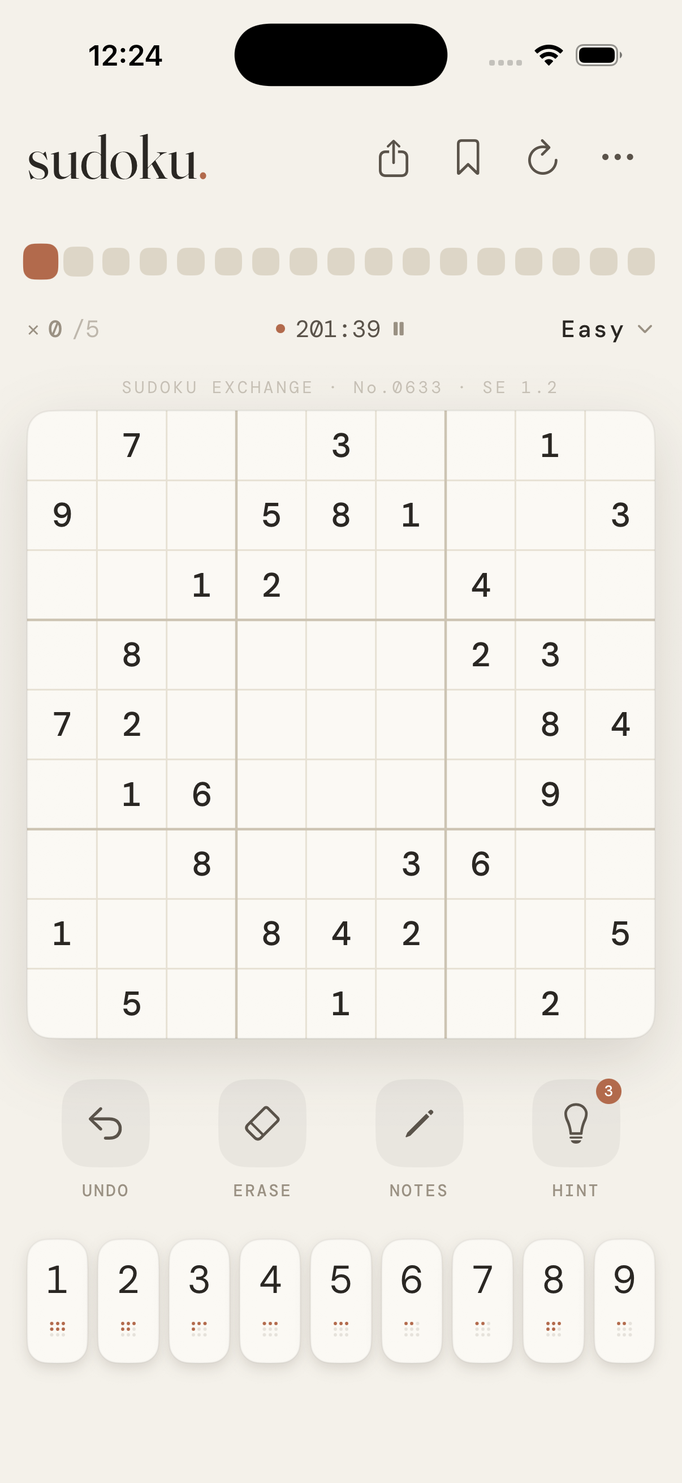
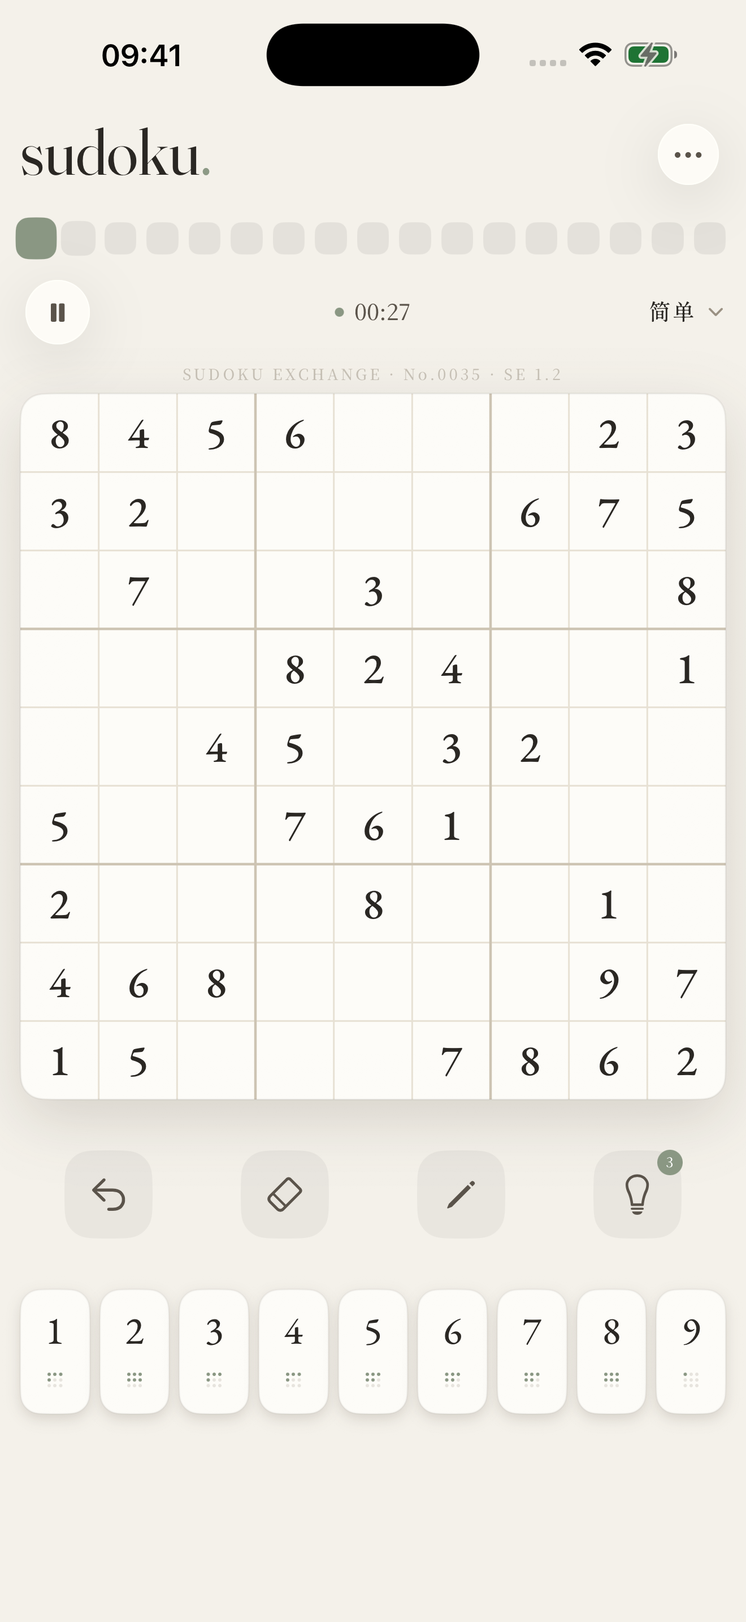
Build a cropped LED Sudoku hero and refresh the app gallery in sage green

diff --git a/sections/sudoku.html b/sections/sudoku.html
@@ -3,10 +3,11 @@
 <head>
 <meta charset="UTF-8">
 <meta name="viewport" content="width=device-width, initial-scale=1.0">
-<script src="../assets/i18n-main.js?v=bilingual-20261023"></script>
+<script src="../assets/i18n-main.js?v=green-sudoku-20261024"></script>
 <script src="../assets/i18n-cases.js?v=bilingual-20261023"></script>
 <script src="../assets/i18n.js?v=bilingual-20261023"></script>
 <script src="../assets/theme.js?v=diagonal-back-20261024"></script>
+<script defer src="../assets/sudoku-hero-matrix.js?v=large-board-corner-20261024"></script>
 <meta name="description" content="Sudoku.2026：已上架的原生数独应用，界面、交互与真实产品截图。">
 <title>Sudoku — 原生数独</title>
 <style>
@@ -15,7 +16,7 @@
 *{box-sizing:border-box}html{scroll-behavior:smooth}body{margin:0;background:var(--paper);color:var(--ink);font:400 14px/1.85 var(--sans);-webkit-font-smoothing:antialiased}h1,h2,p,figure,dl,dd{margin:0}button,a{-webkit-tap-highlight-color:transparent;touch-action:manipulation}button{font:inherit;color:inherit}a{color:inherit;text-decoration:none}img{display:block;width:100%;height:auto}button{border:0;border-radius:0;background:none;cursor:pointer;padding:0}a:focus-visible,button:focus-visible,summary:focus-visible{outline:1px solid var(--ink);outline-offset:7px}::selection{background:var(--ink);color:var(--paper)}.page{width:min(1320px,100%);margin:auto;padding:0 clamp(22px,5.5vw,76px)}
 .topbar{padding-right:96px;min-height:88px;display:flex;justify-content:space-between;align-items:center;gap:25px;padding-left:124px;border-bottom:1px solid var(--line);font:10px/1.5 var(--mono);letter-spacing:.07em;color:var(--mid)}.store-link{display:inline-flex;align-items:center;justify-content:space-between;gap:22px;min-height:44px;white-space:nowrap;color:var(--ink)}.store-link .arrow{font-size:18px;transition:transform .2s}.store-link:hover .arrow{transform:translate(2px,-2px)}
 .hero{padding:68px 0 54px}.hero-kicker{display:flex;justify-content:space-between;gap:25px;color:var(--mid);font:10px/1.7 var(--mono);letter-spacing:.08em}.hero-main{display:grid;grid-template-columns:1.7fr .8fr;gap:30px;align-items:end;margin-top:35px}.hero h1{font:400 clamp(88px,15.7vw,202px)/.9 var(--serif);letter-spacing:-.075em;white-space:nowrap}.hero h1 span{color:var(--accent)}.hero-line{font-size:17px;letter-spacing:.07em;margin-top:27px}.hero-aside{padding-bottom:6px;max-width:255px;justify-self:end}.hero-aside p{font-size:13px;line-height:2;color:var(--mid)}.hero-aside .project-type{display:block;font:10px/1.7 var(--mono);letter-spacing:.06em;margin-top:22px;color:var(--soft)}
-.product-spread{display:grid;grid-template-columns:.85fr 1fr 1fr;gap:clamp(20px,3.4vw,45px);padding:48px clamp(25px,4vw,54px) 34px;background:var(--surface);align-items:end}.product-copy{align-self:center;padding-bottom:40px}.section-no{font:10px/1.5 var(--mono);letter-spacing:.08em;color:var(--soft)}.product-copy h2{font-size:clamp(24px,2.7vw,34px);font-weight:400;letter-spacing:-.035em;line-height:1.6;margin-top:24px;max-width:6em}.product-copy>p{font-size:12px;line-height:2.05;color:var(--mid);margin-top:20px;max-width:19em}.facts{margin-top:38px;display:grid;gap:13px}.facts>div{display:grid;grid-template-columns:42px 1fr;gap:14px;font-size:10px}.facts dt{color:var(--soft)}.facts dd{color:var(--mid)}.screen-image{position:relative;display:block;width:100%;overflow:hidden;background:var(--photo-paper)}.screen-image img{aspect-ratio:1206/2622;object-fit:contain}.image-hint{position:absolute;top:9px;right:9px;width:29px;height:29px;display:grid;place-items:center;background:#f5f4eddd;color:#45483f;font:16px/1 var(--mono);opacity:0;transition:opacity .2s}.image-open:hover .image-hint,.image-open:focus-visible .image-hint{opacity:1}.screen-caption{display:flex;align-items:baseline;gap:13px;margin-top:18px;color:var(--mid);font-size:10px}.screen-caption span{font:9px/1.6 var(--mono);color:var(--soft)}
+.product-spread{display:grid;grid-template-columns:.85fr 1fr 1fr;gap:clamp(20px,3.4vw,45px);padding:48px clamp(25px,4vw,54px) 34px;background:var(--surface);align-items:end}.product-copy{align-self:center;padding-bottom:40px}.section-no{font:10px/1.5 var(--mono);letter-spacing:.08em;color:var(--soft)}.product-copy h2{font-size:clamp(24px,2.7vw,34px);font-weight:400;letter-spacing:-.035em;line-height:1.6;margin-top:24px;max-width:6em}.product-copy>p{font-size:12px;line-height:2.05;color:var(--mid);margin-top:20px;max-width:19em}.facts{margin-top:38px;display:grid;gap:13px}.facts>div{display:grid;grid-template-columns:42px 1fr;gap:14px;font-size:10px}.facts dt{color:var(--soft)}.facts dd{color:var(--mid)}.screen-image{position:relative;display:block;width:100%;overflow:hidden;background:var(--photo-paper)}.screen-image img{aspect-ratio:1320/2868;object-fit:contain}.image-hint{position:absolute;top:9px;right:9px;width:29px;height:29px;display:grid;place-items:center;background:#f5f4eddd;color:#45483f;font:16px/1 var(--mono);opacity:0;transition:opacity .2s}.image-open:hover .image-hint,.image-open:focus-visible .image-hint{opacity:1}.screen-caption{display:flex;align-items:baseline;gap:13px;margin-top:18px;color:var(--mid);font-size:10px}.screen-caption span{font:9px/1.6 var(--mono);color:var(--soft)}
 
 .archive{margin-top:75px;border-top:1px solid var(--line);border-bottom:1px solid var(--line)}.archive summary{display:flex;align-items:center;gap:25px;min-height:83px;cursor:pointer;list-style:none;font-size:12px}.archive summary::-webkit-details-marker{display:none}.archive-label{color:var(--ink)}.archive-meta{font-size:10px;color:var(--soft);margin-left:auto}.archive-plus{font:22px/1 var(--mono);color:var(--mid);margin-left:auto}.archive-meta+.archive-plus{margin-left:14px}.archive[open] .archive-plus{transform:rotate(45deg)}.screen-strip{display:grid;grid-template-columns:repeat(3,minmax(0,1fr));gap:30px;padding:15px 0 35px}.screen-strip .screen-image{max-width:280px;margin:auto}.screen-strip .screen-caption{max-width:280px;margin:16px auto 0}.project-footer{margin-top:75px;padding:34px 0 46px;display:flex;justify-content:space-between;gap:25px;align-items:center}.footer-name{font:400 28px/1 var(--serif);letter-spacing:-.04em}.footer-name small{display:block;font:10px/1.5 var(--mono);letter-spacing:0;color:var(--soft);margin-top:12px}.project-footer .store-link{font-size:11px;border-bottom:1px solid var(--line);padding-bottom:5px}
 .media-viewer{border:0;padding:0;background:var(--paper);color:var(--ink);max-width:none;max-height:none;width:100%;height:100%;margin:0;position:fixed;inset:0;overflow:auto}.media-viewer::backdrop{background:#000a}.viewer-bar{height:74px;position:sticky;top:0;z-index:2;background:var(--paper);display:flex;justify-content:space-between;align-items:center;padding:0 28px;gap:24px;border-bottom:1px solid var(--line)}#viewer-caption{font-size:11px;color:var(--mid)}.viewer-close{width:44px;height:44px;display:grid;place-items:center;font:28px/1 var(--mono)}.viewer-image{display:flex;justify-content:center;padding:30px 24px 50px;min-height:calc(100% - 74px)}.viewer-image img{width:auto;max-width:100%;height:auto;max-height:none;object-fit:contain;align-self:flex-start}.viewer-image.is-screen img{width:min(440px,100%)}.viewer-image.is-poster img{width:min(900px,100%)}
@@ -26,23 +27,25 @@
 .footer-actions{display:flex;align-items:center;gap:28px}.case-link{font-size:10px;color:var(--mid);min-height:44px;display:inline-flex;align-items:center}.case-link:hover{color:var(--ink)}@media(max-width:720px){.footer-actions{flex-direction:column;align-items:flex-end;gap:4px}.case-link{font-size:9px;min-height:32px}}
 </style>
 <link rel="stylesheet" href="../assets/theme.css?v=lanting-light-20261024">
+<link rel="stylesheet" href="../assets/sudoku-hero.css?v=large-board-corner-20261024">
 </head>
 <body>
 <main class="page">
   <header class="topbar"><span>01 / 数独</span><a class="store-link" href="https://apps.apple.com/cn/app/sudoku-2026/id6775198044" target="_blank" rel="noopener noreferrer">App Store <span class="arrow" aria-hidden="true">↗</span></a></header>
   <section class="hero" aria-labelledby="project-title">
+    <div class="sudoku-hero-art" aria-hidden="true" data-i18n-ignore><div class="sudoku-board-angle"><canvas id="sudoku-hero-matrix" aria-hidden="true"></canvas></div></div>
     <div class="hero-kicker"><span>原生数独 · 已上架</span><span>产品设计 / 视觉设计 / SwiftUI</span></div>
     <div class="hero-main"><div><h1 id="project-title">sudoku<span>.</span></h1><p class="hero-line">凡事有解。</p></div><div class="hero-aside"><span class="project-type">iPhone / iPad</span></div></div>
   </section>
   <section class="product-spread" aria-labelledby="product-heading">
     <div class="product-copy"><span class="section-no">01 / 产品</span><h2 id="product-heading">界面与交互</h2><p>棋盘、笔记与分步辅导。</p><dl class="facts"><div><dt>平台</dt><dd>iPhone / iPad</dd></div><div><dt>形式</dt><dd>SwiftUI 原生应用</dd></div><div><dt>工作</dt><dd>独立设计与开发</dd></div></dl></div>
-    <figure><button class="screen-image image-open" data-image="../assets/works/sudoku/board.png" data-caption="主棋盘" data-kind="screen" aria-label="放大查看主棋盘截图"><img src="../assets/works/sudoku/board.png" width="1206" height="2622" alt="数独主棋盘，纸白底、陶土色进度与输入工具" fetchpriority="high" decoding="async"><span class="image-hint" aria-hidden="true">↗</span></button><figcaption class="screen-caption"><span>01</span>主棋盘</figcaption></figure>
-    <figure><button class="screen-image image-open" data-image="../assets/works/sudoku/coach.png" data-caption="分步辅导" data-kind="screen" aria-label="放大查看分步辅导截图"><img src="../assets/works/sudoku/coach.png" width="1206" height="2622" alt="分步辅导在真实盘面上标出目标格，并解释裸单逻辑" decoding="async"><span class="image-hint" aria-hidden="true">↗</span></button><figcaption class="screen-caption"><span>02</span>分步辅导</figcaption></figure>
+    <figure><button class="screen-image image-open" data-image="../assets/works/sudoku/board.png?v=green-20261024" data-caption="主棋盘" data-kind="screen" aria-label="放大查看主棋盘截图"><img src="../assets/works/sudoku/board.png?v=green-20261024" width="1320" height="2868" alt="数独主棋盘，鼠尾草绿色进度条与输入工具" fetchpriority="high" decoding="async"><span class="image-hint" aria-hidden="true">↗</span></button><figcaption class="screen-caption"><span>01</span>主棋盘</figcaption></figure>
+    <figure><button class="screen-image image-open" data-image="../assets/works/sudoku/coach.png?v=green-20261024" data-caption="分步辅导" data-kind="screen" aria-label="放大查看分步辅导截图"><img src="../assets/works/sudoku/coach.png?v=green-20261024" width="1320" height="2868" alt="离线分步辅导，用绿色框线标出隐性唯一的目标行和格子" decoding="async"><span class="image-hint" aria-hidden="true">↗</span></button><figcaption class="screen-caption"><span>02</span>分步辅导</figcaption></figure>
   </section>
   <details class="archive"><summary><span class="archive-label">界面档案</span><span class="archive-meta">设置 / 经典残局 / 分享</span><span class="archive-plus" aria-hidden="true">＋</span></summary><div class="screen-strip">
-    <figure><button class="screen-image image-open" data-image="../assets/works/sudoku/settings.png" data-caption="设置" data-kind="screen" aria-label="放大查看设置截图"><img src="../assets/works/sudoku/settings.png" width="1206" height="2622" alt="数独设置页面" loading="lazy" decoding="async"><span class="image-hint" aria-hidden="true">↗</span></button><figcaption class="screen-caption"><span>03</span>设置</figcaption></figure>
-    <figure><button class="screen-image image-open" data-image="../assets/works/sudoku/classics.png" data-caption="经典残局" data-kind="screen" aria-label="放大查看经典残局截图"><img src="../assets/works/sudoku/classics.png" width="1206" height="2622" alt="经典残局题库页面" loading="lazy" decoding="async"><span class="image-hint" aria-hidden="true">↗</span></button><figcaption class="screen-caption"><span>04</span>经典残局</figcaption></figure>
-    <figure><button class="screen-image image-open" data-image="../assets/works/sudoku/share.png" data-caption="分享残局" data-kind="screen" aria-label="放大查看分享残局截图"><img src="../assets/works/sudoku/share.png" width="1206" height="2622" alt="通过文字口令分享同一局数独" loading="lazy" decoding="async"><span class="image-hint" aria-hidden="true">↗</span></button><figcaption class="screen-caption"><span>05</span>分享残局</figcaption></figure>
+    <figure><button class="screen-image image-open" data-image="../assets/works/sudoku/settings.png?v=green-20261024" data-caption="设置" data-kind="screen" aria-label="放大查看设置截图"><img src="../assets/works/sudoku/settings.png?v=green-20261024" width="1320" height="2868" alt="数独设置页面" loading="lazy" decoding="async"><span class="image-hint" aria-hidden="true">↗</span></button><figcaption class="screen-caption"><span>03</span>设置</figcaption></figure>
+    <figure><button class="screen-image image-open" data-image="../assets/works/sudoku/classics.png?v=green-20261024" data-caption="经典残局" data-kind="screen" aria-label="放大查看经典残局截图"><img src="../assets/works/sudoku/classics.png?v=green-20261024" width="1320" height="2868" alt="经典残局题库页面" loading="lazy" decoding="async"><span class="image-hint" aria-hidden="true">↗</span></button><figcaption class="screen-caption"><span>04</span>经典残局</figcaption></figure>
+    <figure><button class="screen-image image-open" data-image="../assets/works/sudoku/share.png?v=green-20261024" data-caption="分享残局" data-kind="screen" aria-label="放大查看分享残局截图"><img src="../assets/works/sudoku/share.png?v=green-20261024" width="1320" height="2868" alt="分享残局页面，显示当前盘面预览和发送给朋友按钮" loading="lazy" decoding="async"><span class="image-hint" aria-hidden="true">↗</span></button><figcaption class="screen-caption"><span>05</span>分享残局</figcaption></figure>
   </div></details>
   <footer class="project-footer"><div class="footer-name">Sudoku.2026<small>独立设计与开发 · 蔡正阳</small></div><div class="footer-actions"><a class="case-link" href="sudoku-visual.html">视觉系统 ↗</a><a class="store-link" href="https://apps.apple.com/cn/app/sudoku-2026/id6775198044" target="_blank" rel="noopener noreferrer">前往 App Store <span class="arrow" aria-hidden="true">↗</span></a></div></footer>
 </main>

diff --git a/assets/sudoku-hero-matrix.js b/assets/sudoku-hero-matrix.js
@@ -1,0 +1,97 @@
+/* Independent, static LED Sudoku. CSS owns the giant scale, tilt and clipping.
+ * Logical canvas: 1536 square. Board: (48,48)..(1488,1488), cells 160.
+ * Every LED sits on an 8-unit lattice; digits are hand-coded 5×7 bitmaps.
+ * No font rendering, image assets, interaction, timers or animation frames.
+ */
+(() => {
+  'use strict';
+  const canvas=document.getElementById('sudoku-hero-matrix');
+  const ctx=canvas?.getContext('2d',{alpha:true});
+  if(!ctx)return;
+  const SIZE=1536,PITCH=8,ORIGIN=48,CELL=160,END=1488,GRID=193,RADIUS=2.55;
+  // A valid, uniquely solvable partial board; zero cells stay completely open.
+  const BOARD=[
+    '530070000','600195000','098000060',
+    '800060003','400803001','700020006',
+    '060000280','000419005','000080079',
+  ];
+  const FONT={
+    1:['00100','01100','00100','00100','00100','00100','01110'],
+    2:['01110','11011','00011','00110','01100','11000','11111'],
+    3:['11110','00011','00011','01110','00011','00011','11110'],
+    4:['00011','00111','01111','11011','11111','00011','00011'],
+    5:['11111','11000','11000','11110','00011','00011','11110'],
+    6:['01110','11000','11000','11110','11011','11011','01110'],
+    7:['11111','00011','00110','00110','01100','01100','01100'],
+    8:['01110','11011','11011','01110','11011','11011','01110'],
+    9:['01110','11011','11011','01111','00011','00011','01110'],
+  };
+  const accentCells=new Set(['0:1','1:3','4:5','6:7','8:8']);
+  const roles=new Uint8Array(GRID*GRID);
+  function dot(x,y,role) {
+    const column=Math.round(x/PITCH),row=Math.round(y/PITCH);
+    if(column>=0&&row>=0&&column<GRID&&row<GRID)roles[row*GRID+column]=role;
+  }
+  // Thin cell divisions and three-column block divisions use identical dots.
+  // Their only difference is the number of parallel LED columns.
+  for(let boundary=0;boundary<=9;boundary++) {
+    const coordinate=ORIGIN+boundary*CELL,major=boundary%3===0;
+    for(const offset of major?[-PITCH,0,PITCH]:[0]) {
+      for(let point=ORIGIN-PITCH;point<=END+PITCH;point+=PITCH) {
+        dot(coordinate+offset,point,major?2:1);
+        dot(point,coordinate+offset,major?2:1);
+      }
+    }
+  }
+  for(let row=0;row<9;row++)for(let column=0;column<9;column++) {
+    const value=Number(BOARD[row][column]);if(!value)continue;
+    const glyph=FONT[value],role=accentCells.has(`${row}:${column}`)?4:3;
+    const x=ORIGIN+column*CELL+40,y=ORIGIN+row*CELL+24;
+    for(let gy=0;gy<7;gy++)for(let gx=0;gx<5;gx++)if(glyph[gy][gx]==='1') {
+      for(let sy=0;sy<2;sy++)for(let sx=0;sx<2;sx++)dot(x+(gx*2+sx)*PITCH,y+(gy*2+sy)*PITCH,role);
+    }
+  }
+  const points=[[],[],[],[],[]];
+  for(let row=0;row<GRID;row++)for(let column=0;column<GRID;column++) {
+    const role=roles[row*GRID+column];if(role)points[role].push([column*PITCH,row*PITCH]);
+  }
+  const themes={
+    dark:{colours:['','rgb(115,121,108)','rgb(146,155,134)','rgb(162,172,151)','rgb(125,164,121)'],alpha:[0,.68,.83,.94,.96]},
+    light:{colours:['','rgb(116,126,107)','rgb(77,92,71)','rgb(67,88,66)','rgb(65,111,65)'],alpha:[0,.74,.9,.94,.95]},
+  };
+  const forced=matchMedia('(forced-colors: active)');
+  let visible=true,pageShown=true,dirty=true;
+  function draw() {
+    if(!dirty||!visible||!pageShown||document.hidden||forced.matches)return;
+    const theme=themes[document.documentElement.dataset.theme==='light'?'light':'dark'];
+    ctx.clearRect(0,0,SIZE,SIZE);
+    for(let role=1;role<=4;role++) {
+      ctx.fillStyle=theme.colours[role];ctx.globalAlpha=theme.alpha[role];
+      for(const[x,y]of points[role]) {
+        ctx.beginPath();ctx.arc(x,y,RADIUS,0,Math.PI*2);ctx.fill();
+      }
+    }
+    ctx.globalAlpha=1;dirty=false;
+  }
+  function refresh() {
+    dirty=true;canvas.style.visibility=forced.matches?'hidden':'';draw();
+  }
+  function resize() {
+    const cssSize=Math.max(canvas.clientWidth||0,canvas.clientHeight||0);
+    const backing=Math.min(3072,Math.max(SIZE,Math.round(cssSize*Math.min(devicePixelRatio||1,2))));
+    if(canvas.width!==backing)canvas.width=backing;
+    if(canvas.height!==backing)canvas.height=backing;
+    ctx.setTransform(backing/SIZE,0,0,backing/SIZE,0,0);refresh();
+  }
+  new MutationObserver(refresh).observe(document.documentElement,{attributes:true,attributeFilter:['data-theme']});
+  if(typeof IntersectionObserver==='function')new IntersectionObserver(entries=>{
+    visible=entries.some(entry=>entry.isIntersecting);if(visible)draw();
+  }).observe(canvas);
+  if(typeof ResizeObserver==='function')new ResizeObserver(resize).observe(canvas);
+  addEventListener('resize',resize,{passive:true});
+  document.addEventListener('visibilitychange',()=>{if(!document.hidden)draw();});
+  forced.addEventListener('change',refresh);
+  addEventListener('pagehide',()=>{pageShown=false;});
+  addEventListener('pageshow',()=>{pageShown=true;draw();});
+  resize();
+})();

diff --git a/assets/sudoku-hero.css b/assets/sudoku-hero.css
@@ -1,0 +1,37 @@
+/* The board is larger than the frame: one LED corner enters from the upper left. */
+.page{--sudoku-gutter:clamp(22px,5.5vw,76px)}
+.hero{position:relative;isolation:isolate;display:flex;flex-direction:column;
+  min-height:clamp(560px,74svh,780px);padding:40px 0 54px}
+.sudoku-hero-art{position:absolute;z-index:-1;top:0;bottom:0;
+  left:calc(-1 * var(--sudoku-gutter));right:calc(-1 * var(--sudoku-gutter));
+  overflow:hidden;pointer-events:none;user-select:none}
+.sudoku-board-angle{--board-size:clamp(1100px,114vw,1720px);
+  position:absolute;width:var(--board-size);height:var(--board-size);
+  left:calc(var(--board-size) * -.72);top:calc(var(--board-size) * -.55);
+  transform:rotate(-22deg);transform-origin:50% 50%;pointer-events:none}
+#sudoku-hero-matrix{display:block;width:100%;height:100%;pointer-events:none}
+.hero .hero-kicker{position:relative;align-self:flex-end;display:flex;flex-direction:column;
+  width:52%;gap:7px;font-size:12px;line-height:1.65;letter-spacing:.03em}
+.hero .hero-kicker>span:last-child{text-align:left}
+.hero .hero-main{position:relative;display:block;width:52%;margin: auto 0 28px auto}
+.hero h1{font-size:clamp(100px,11.7vw,164px);line-height:.95;letter-spacing:-.065em}
+.hero .hero-line{margin-top:25px;font-size:17px}
+.hero .hero-aside{max-width:none;margin-top:25px;padding:0}
+.hero .hero-aside .project-type{margin-top:0}
+@media(max-width:1000px) and (min-width:721px){
+  .hero h1{font-size:12vw}
+  .sudoku-board-angle{left:calc(var(--board-size) * -.76)}
+}
+@media(max-width:720px){
+  .hero{min-height:570px;padding-top:30px;padding-bottom:38px;gap:32px}
+  .sudoku-board-angle{--board-size:clamp(760px,180vw,1100px);
+    left:calc(var(--board-size) * -.62);top:calc(var(--board-size) * -.72)}
+  .hero .hero-kicker{width:100%;align-self:flex-start;margin-top:clamp(200px,calc(35vw + 60px),300px);
+    gap:5px;font-size:10px;overflow-wrap:anywhere}
+  .hero .hero-main{width:100%;margin: auto 0 24px}
+  .hero h1{font-size:clamp(86px,22vw,150px)}
+  .hero .hero-line{font-size:15px;margin-top:22px}
+  .hero .hero-aside{margin-top:20px}
+}
+@media(max-width:400px){.hero{min-height:535px}.hero h1{font-size:23vw}}
+@media(forced-colors:active){.sudoku-hero-art{display:none}}

diff --git a/assets/i18n-main.js b/assets/i18n-main.js
@@ -92,9 +92,11 @@ window.PORTFOLIO_TRANSLATIONS = {
   "独立设计与开发": "Independent design and development",
   "放大查看主棋盘截图": "Enlarge the main board screenshot",
   "数独主棋盘，纸白底、陶土色进度与输入工具": "The main Sudoku board, with a paper-white background, terracotta progress and input tools",
+  "数独主棋盘，鼠尾草绿色进度条与输入工具": "The main Sudoku board with sage-green progress and input tools",
   "主棋盘": "Main board",
   "放大查看分步辅导截图": "Enlarge the coaching screenshot",
   "分步辅导在真实盘面上标出目标格，并解释裸单逻辑": "Step-by-step coaching highlights a target cell on the board and explains the naked-single technique",
+  "离线分步辅导，用绿色框线标出隐性唯一的目标行和格子": "Offline step-by-step coaching marks the target row and cell for a hidden single in green",
   "分步辅导": "Step-by-step coaching",
   "界面档案": "Interface archive",
   "设置 / 经典残局 / 分享": "Settings / Classic puzzles / Sharing",
@@ -106,6 +108,7 @@ window.PORTFOLIO_TRANSLATIONS = {
   "经典残局": "Classic puzzles",
   "放大查看分享残局截图": "Enlarge the puzzle-sharing screenshot",
   "通过文字口令分享同一局数独": "Share the same Sudoku puzzle with a text code",
+  "分享残局页面，显示当前盘面预览和发送给朋友按钮": "The puzzle-sharing screen, showing the current board preview and a Send to friends button",
   "分享残局": "Share a puzzle",
   "独立设计与开发 · 蔡正阳": "Designed and developed independently by Cai Zhengyang",
   "视觉系统 ↗": "Visual system ↗",

diff --git a/index.html b/index.html
@@ -411,7 +411,7 @@ secBack.addEventListener('click',()=>{if(phase==='section')showWorks();});
 /* 原生重建页（可编辑元素，非贴图） */
 const SECTION_PAGE={
   "arright":"sections/arright.html",
-  "数独 · App":"sections/sudoku.html",
+  "数独 · App":"sections/sudoku.html?v=green-led-20261024",
   "数独 · 视觉":"sections/sudoku-visual.html",
   "良渚 · AI 3D":"sections/ai3d.html",
   "良渚 · XR":"sections/xr.html",

diff --git a/assets/works/sudoku/SOURCES.md b/assets/works/sudoku/SOURCES.md
@@ -1,0 +1,32 @@
+# 极简数独截图来源
+
+采集日期：2026-10-24。此目录用于第一版极简数独，Bundle ID `com.hanyuzhu.sudoku`、App Store ID `6775198044`；与美式报刊视觉探索的素材分开。
+
+## 当前作品页的五张截图
+
+五张均来自同一份真实原生 App 开发构建：`1.2 (28)`，Debug / iOS Simulator。统一为中文界面、鼠尾绿 `.sage` 主题、6.9 寸 iPhone 17 Pro Max、iOS 26.5、1320 × 2868；状态栏固定 09:41。
+
+原始截图保存在 `/Users/bing/Documents/codex/2026-10-24/sudoku-green-screenshots/`，与本目录同名文件逐字节一致。通过 `xcrun simctl io ... screenshot` 直接获取屏幕内容，没有模拟器窗口外框、鼠标指针或网页内容，没有重着色、滤镜、裁切或拼接。
+
+| 网站文件 | 已有 DEBUG 启动参数 | 实际画面 |
+| --- | --- | --- |
+| `board.png` | `-zh` | 简单难度主棋盘，鼠尾绿进度条与计时标记 |
+| `coach.png` | `-zh -coach` | 内置离线“隐性唯一”辅导：高亮目标行与格子，“先自己想想”步骤；不是联网请求等待态 |
+| `settings.png` | `-zh -settings` | 设置分类首页：对局规则、盘面辅助、导师、声音与震动、外观、语言等 |
+| `classics.png` | `-zh -classics` | 经典残局列表，含 AI Escargot、Inkala 2012 等条目与 SE 信息 |
+| `share.png` | `-zh -share -fill` | 分享这局残局：真实盘面预览、已填 8/54 格、发送给朋友按钮；预览不含候选笔记 |
+
+## 工程与采集设置
+
+- 源工程：`/Users/bing/Documents/codex/2026-10-11/sudoku-minimal-maintenance/ios/Sudoku.xcodeproj`，scheme `Sudoku`。
+- 版本、Bundle ID 均再次从实际构建产物 `Sudoku.app/Info.plist` 核对。
+- 采集设备：新建的独立模拟器 `Sudoku Portfolio Capture`（UDID `778FF9AD-7257-4C3C-9D43-18A4090E5152`）；没有覆盖用户原有模拟器的应用或数据。
+- 只在该模拟器的应用偏好中选择现有的 `sage`、中文和 `coachMode=standard`，确认离线配置保存成功后采集；没有请求线上教练服务，也没有修改 App 功能或源码。
+- 所有次级页面均使用工程已有的 DEBUG 参数打开；分享的少量已填数字也由已有 `-fill` 逻辑生成。
+- 构建目录 `/tmp/portfolio-sudoku-green-dd`；日志 `/tmp/portfolio-sudoku-green-build.log`，结果 `BUILD SUCCEEDED`。本次仅为原生界面采集，不代表真机或 App Store 二进制验收。
+
+## 与公开商店版本的边界
+
+Apple 官方 [App Store 页面](https://apps.apple.com/cn/app/sudoku-2026/id6775198044) 与 [Lookup API](https://itunes.apple.com/lookup?id=6775198044&country=cn) 本次返回 `Sudoku.2026`、版本 `1.1.1`（2026-07-11）。当前作品页五张图来自上述 `1.2 (28)` 维护构建，不能称为线上 `1.1.1` 的全套商店截图。
+
+本次也核对了用户本地 `.../Sudoku.by BinG/Sudoku/iPhone截图-6.9寸/` 的绿色商店原图。其中主棋盘、英文设置与世界难题棋盘可用，但教练图处于等待态、没有干净分享图。为统一版本与语言，最终五张全部采用同次原生维护构建的截图。原有橙色截图源自 `.../Sudoku.by BinG/Sudoku/产品截图/` 的 2026-06-12 旧图，本次五个当前引用均已替换。
